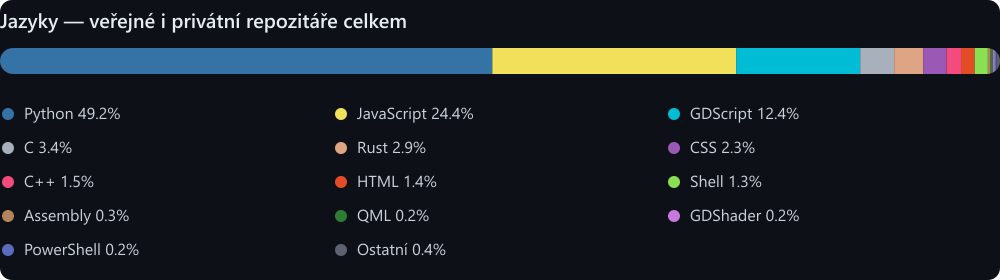
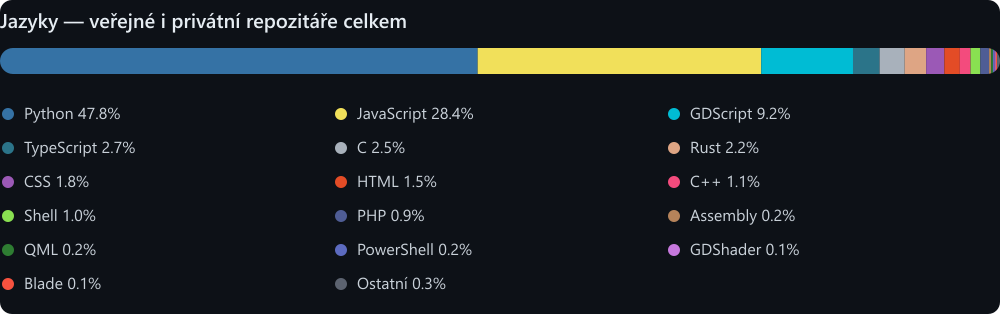
README: opravit Technologie (doplnit Rust, JavaScript/TypeScript), přepočítat kombinovaný graf jazyků
Sencurio backend/web-dashboard/mobile-app/desktop-monitor byly dřív
napushnuté jen jako .gitkeep placeholdery - Laravel/Next.js tagy byly
proto zavádějící. Po skutečném pushnutí kódu (private repo) jsou tagy
i kombinovaný graf jazyků přesné.

diff --git a/README.md b/README.md
@@ -76,6 +76,6 @@ A souhrn přes **všechny** repozitáře včetně privátních (`k3x020-nucleo`,
 
 ## Technologie
 
-`Python` `PySide6 / Qt` `C++` `GDScript` `Bash` `STM32 / ESP32` `Godot` `Laravel` `Next.js`
+`Python` `JavaScript / TypeScript` `Rust` `PySide6 / Qt` `C++` `GDScript` `Bash` `STM32 / ESP32` `Godot` `Laravel` `Next.js`
 
 🌐 **Web:** [svec-elektro.cz](https://svec-elektro.cz) · [sencurio.com](https://sencurio.com)
